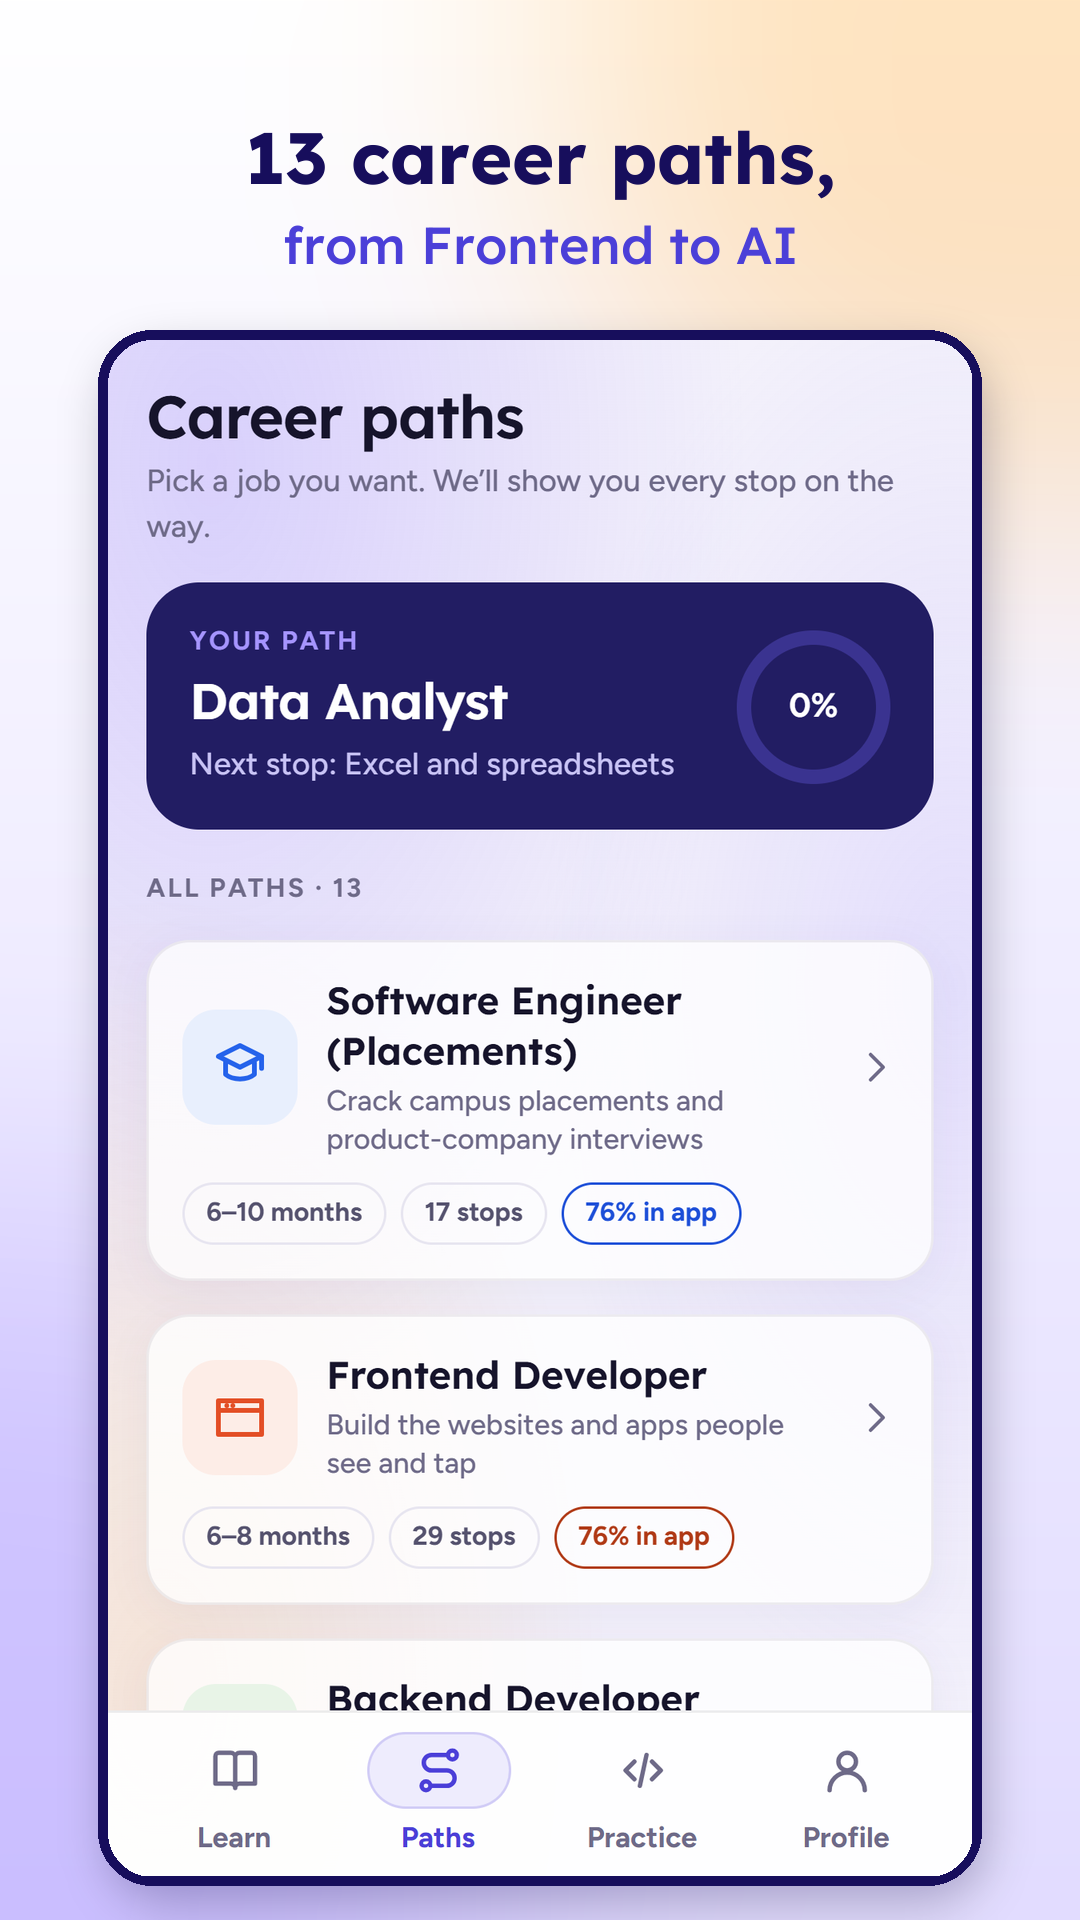
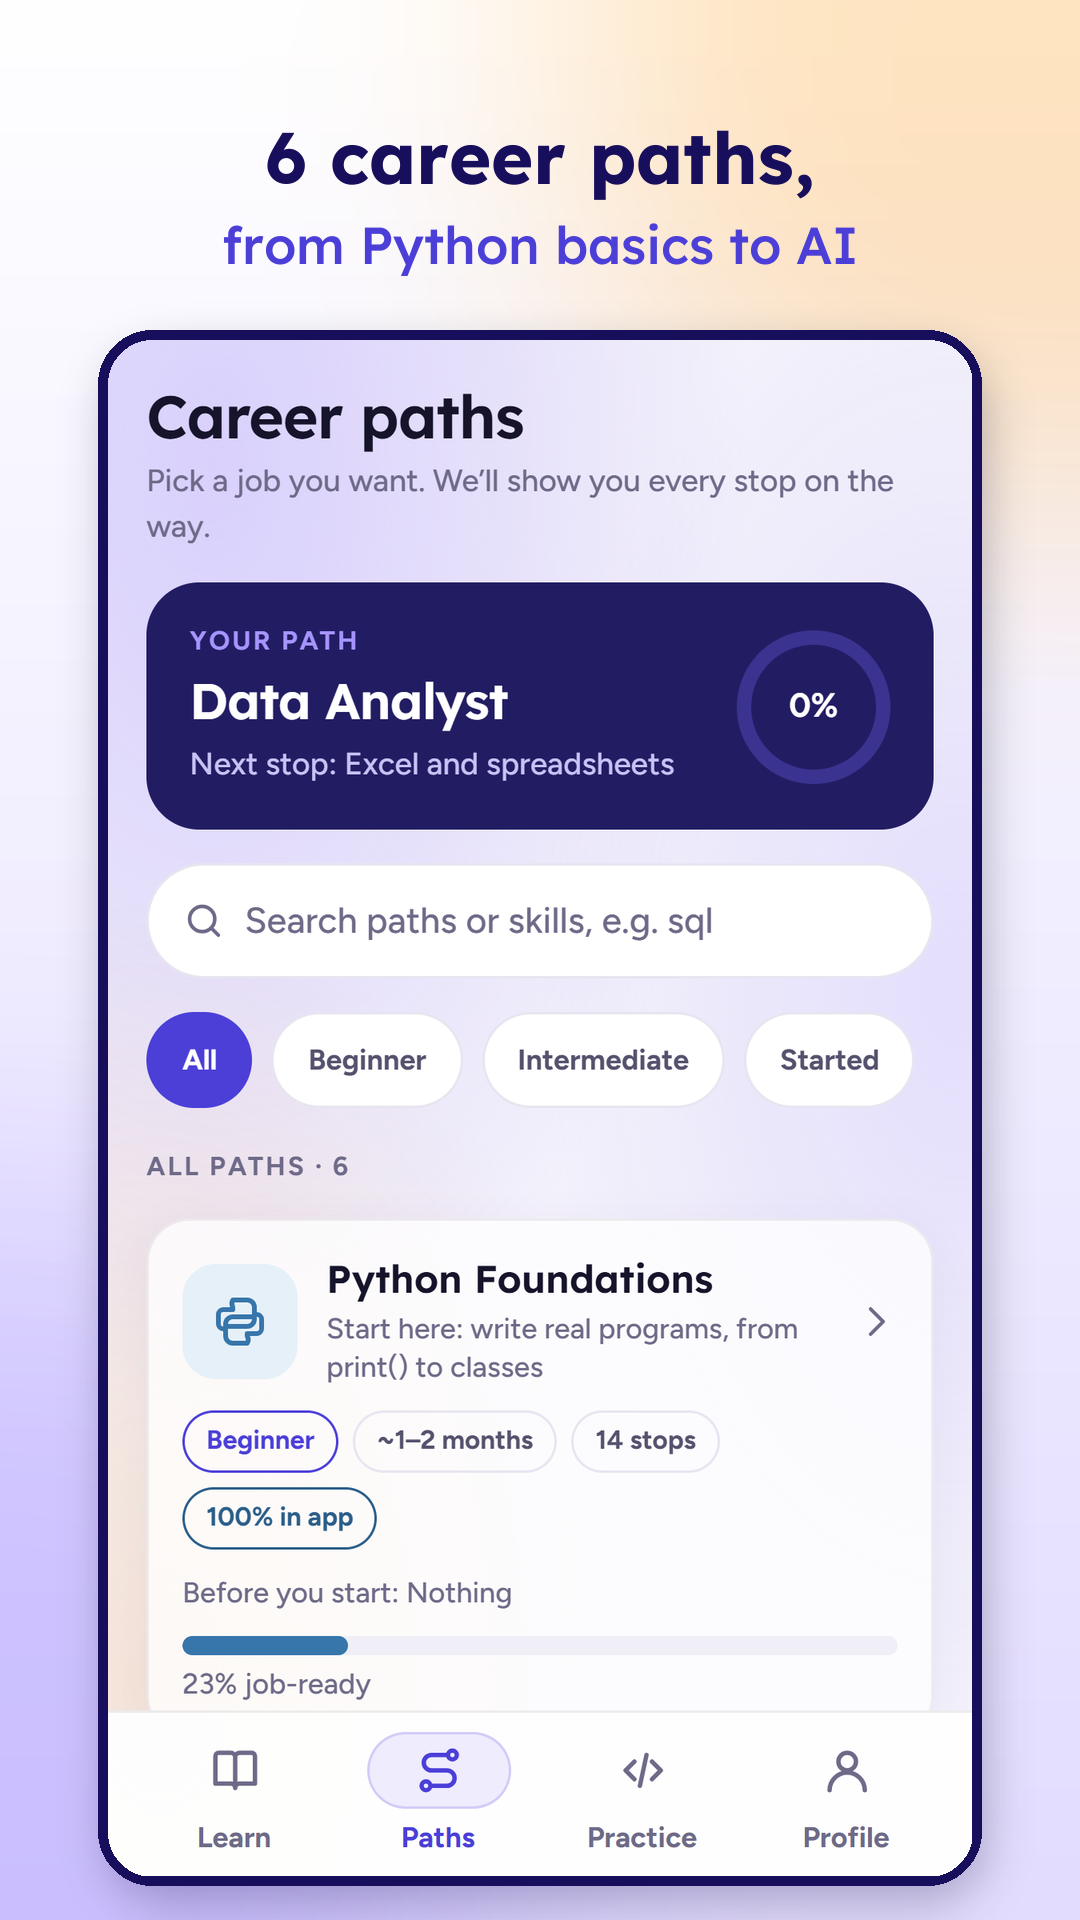
Store screenshot 4: 6 career paths; record merge, track SQL and build 11 in the changelog

diff --git a/scripts/frame-screenshots.py b/scripts/frame-screenshots.py
@@ -18,7 +18,7 @@ SHOTS = [
     ('1-home', 'Learn to code,', 'one short lesson a day'),
     ('2-journey', 'Follow your journey,', 'one step at a time'),
     ('3-roadmap', 'See every step', 'to your dream tech job'),
-    ('4-paths', '13 career paths,', 'from Frontend to AI'),
+    ('4-paths', '6 career paths,', 'from Python basics to AI'),
     ('5-correct', 'Yatri cheers you on', 'when you get it right'),
     ('6-practice', 'Practise real Python', 'and crack output questions'),
     ('7-plan', 'A plan made for you', 'in under a minute'),

diff --git a/project-docs/CHANGELOG.md b/project-docs/CHANGELOG.md
@@ -2,7 +2,14 @@
 
 Newest first. Commit IDs refer to the Git history on GitHub (`nitishkchauhan/CodeYatra`).
 
-## 18 Oct 2026 (branch `content-v2`, not merged yet)
+## 24 Oct 2026
+- **content-v2 merged into main** (fast-forward) and pushed. App version **1.4.0**. Every track is now Lesson v2 and none are paused.
+- Local Play bundle `builds/CodeYatra-1.4.0.aab` (versionCode 11) built in WSL (`scripts/wsl/build-aab.sh`), no EAS quota used. Run it from PowerShell: Git Bash rewrites the /mnt/c path.
+- `supabase/track-lessons.sql` run in Supabase by the owner (all 16 tracks, 209 lessons).
+- Store screenshot 4 redone: "6 career paths, from Python basics to AI", captured from the current Paths tab (`scripts/frame-screenshots.py`).
+- Owner to do: upload the .aab to the closed test and replace screenshot 4 in the Play listing.
+
+## 18 Oct 2026 (branch `content-v2`, merged 24 Oct)
 - **DSA Advanced rewritten and un-paused** (Lesson v2, Python): 13 modules (binary trees, BSTs, heaps, graphs and BFS, DFS and connected parts, topological sort, Dijkstra, backtracking, DP with memoization, DP tables, 2-D DP, greedy, merge sort) plus a **metro route planner** project (BFS with path rebuilding, then Dijkstra). Every output, error message, mistake and solution runs in tests. 52 practice questions; Python docs reading on every lesson. **No tracks are paused any more.** 2704 tests passing.
 - **Java track rewritten and un-paused** (Lesson v2, Java 17+): 12 modules (hello and running, variables and types, operators and Scanner, if and switch expressions, loops, methods and overloading, arrays, Strings and StringBuilder, classes and objects, inheritance and interfaces, ArrayList and HashMap, exceptions) plus a **train reservation system** project. Every Java output question and common mistake is compiled and run with a real JDK in tests (on Windows, the JDK 17 in WSL that the Android build uses; results are cached), so compile errors and exceptions are quoted exactly. Exercises are JavaScript models of the same logic (printf, int overflow, int division, classes, inheritance, word counts, validation). 48 practice questions; dev.java and Java SE API reading on every lesson. 2584 tests passing.
 - **C track rewritten and un-paused** (Lesson v2, C17): 12 modules (hello and compiling, variables and types, operators and input, if/switch, loops, functions, arrays, strings, pointers, structs, dynamic memory, files) plus a **marks manager** project. Every C output question and common mistake is compiled and run with gcc in tests (the wrong program prints exactly what is shown). The app can’t compile C on a phone yet, so try-its and exercises are Python models of what C does (printf placeholders, fixed-size integers, permission bits, strcmp, pointer chains, doubling capacity). 49 practice questions; cppreference reading on every lesson. 2445 tests passing.
@@ -26,7 +33,7 @@ Newest first. Commit IDs refer to the Git history on GitHub (`nitishkchauhan/Cod
 - `project-docs/CONTENT-REVIEW.md`: the lesson template and review checklist for future content.
 - 1060 tests, all passing. `supabase/track-lessons.sql` regenerated again (Next.js modules).
 
-## 17 Oct 2026 (branch `content-v2`, not merged yet)
+## 17 Oct 2026 (branch `content-v2`, merged 24 Oct)
 - **Content plan phases A and B** (owner approved the 5 paths + CBSE, hiding the rest, and starting with A + B):
   - **Lesson v2** format: a hook (a real situation and what you'll be able to do), three short cards, **try it** (edit and run code, nothing marked), **common mistake** (the wrong code, the real error, then the fix), two quick checks, a coding exercise, and a 3-point recap on the finish screen.
   - **Python Foundations rewritten:** 12 modules (first program, numbers, text, decisions, for, while, lists, dictionaries, functions, errors, files, classes) plus a 4-step **canteen billing project**, each module with a 4–5 question practice set. Old "Comprehensions" and "Problem solving" lessons are now bonus practice. Finished modules stay finished.

diff --git a/project-docs/SRS.md b/project-docs/SRS.md
@@ -74,7 +74,7 @@ The app is **not for children under 13** (Play target audience 13–15, 16–17,
 ### 2.4 Career paths (see [modules/04](modules/04-career-paths.md))
 | ID | Requirement | Status |
 |---|---|---|
-| FR-R1 | 13 career paths, each made of sections and stops | 🧪 |
+| FR-R1 | 13 career paths (6 shown, 7 paused), each made of sections and stops | 🧪 |
 | FR-R2 | roadmap.sh-style map view and a list view | 🧪 |
 | FR-R3 | Each stop shows why it matters, the CodeYatra lessons that teach it, and free outside links | 🧪 |
 | FR-R4 | Progress comes from finished lessons plus stops ticked as “I already know this”; optional stops don’t count; a “pick one” choice counts once | 🧪 |

diff --git a/project-docs/modules/04-career-paths.md b/project-docs/modules/04-career-paths.md
@@ -51,7 +51,7 @@ Stops not taught in the app link to **free** outside material (official docs, fr
 | Part | Files |
 |---|---|
 | Data model and progress rules | `src/content/paths/types.ts`, `src/content/paths/index.ts` |
-| The 13 paths | `src/content/paths/*.ts` (shared stops and link helpers in `shared.ts`) |
+| The paths (6 shown, 7 paused) | `src/content/paths/*.ts` (shared stops and link helpers in `shared.ts`) |
 | Paths tab | `src/app/(tabs)/paths.tsx` |
 | Path screen | `src/app/path/[id].tsx` |
 | Roadmap map | `src/components/RoadmapMap.tsx` |
